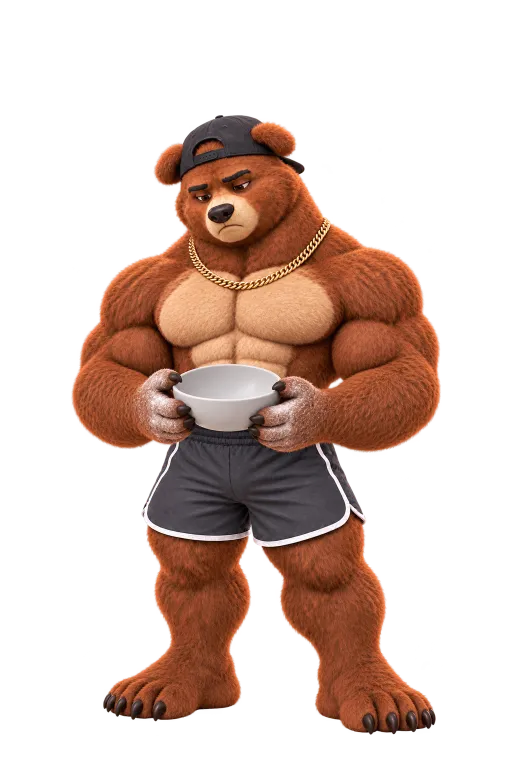
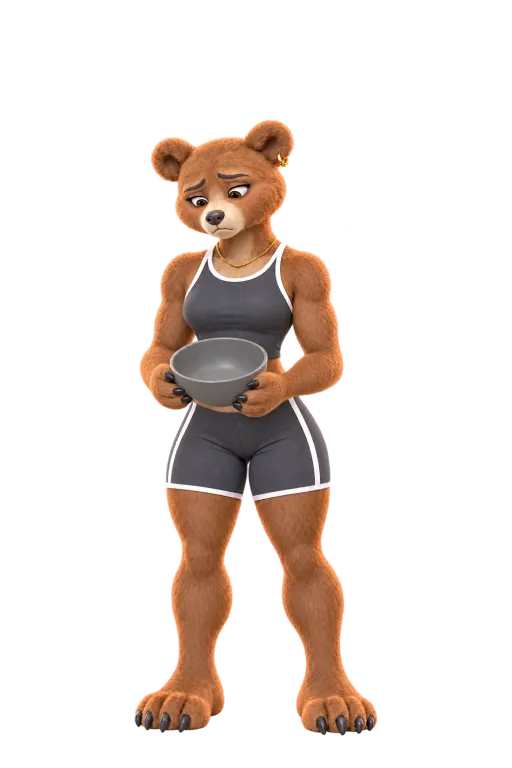
Split the two pitches apart and show male and female bears
Page A now pitches only the pet: levels from bedroom to Mars, feeding,
and the lazy bear. Page B pitches only the AI meal tracker: both hero
bears hold bowls under a scanned meal. Each hero and closing band shows
a male and a female bear. [skip deploy]

diff --git a/landing/b/index.html b/landing/b/index.html
@@ -198,14 +198,13 @@
   .board .big { font-size: 15cqw; text-transform: uppercase; margin: 1.5cqw 0; }
   .scene .bear {
     position: absolute;
-    left: 50%;
-    bottom: 3%;
-    height: 66%;
     width: auto;
     max-width: none;
     transform: translateX(-50%);
     filter: drop-shadow(0 12px 14px rgba(0, 0, 0, 0.35));
   }
+  .scene .bear.back { left: 68%; bottom: 6%; height: 56%; }
+  .scene .bear.front { left: 32%; bottom: 2%; height: 62%; }
 
   .features { padding-block: 40px 72px; }
   .features h2 { font-size: clamp(36px, 7vw, 56px); text-transform: uppercase; line-height: 0.98; max-width: 16ch; margin-bottom: 28px; }
@@ -224,8 +223,13 @@
   .cell img { align-self: end; justify-self: end; height: 220px; width: auto; margin-top: 12px; }
   .cell.one { background: var(--forest); color: var(--cream); }
   .cell.one p { color: #cfd9cf; }
-  .cell.one img.wide { height: auto; width: 100%; max-width: 560px; justify-self: center; }
   .cell.one img.tall { height: 300px; }
+  .levels { align-self: end; display: grid; gap: 10px; margin-top: 16px; }
+  .levels div { display: flex; align-items: flex-end; justify-content: space-between; }
+  .levels img { margin: 0; width: auto; }
+  .levels img:nth-child(1) { height: 92px; }
+  .levels img:nth-child(2) { height: 140px; }
+  .levels img:nth-child(3) { height: 176px; }
   .cell.two { background: var(--tint-honey); }
   .cell.three { background: var(--tint-sage); }
   .cell.two p, .cell.three p { color: var(--muted); }
@@ -237,7 +241,9 @@
   .closing label { color: var(--cream); }
   .closing .msg { color: #ffb4a8; }
   .closing .thanks { background: var(--forest-deep); color: #8fe3bb; border-color: #24543d; }
-  .closing img { height: 340px; width: auto; justify-self: center; align-self: end; }
+  .duo { display: flex; justify-content: center; align-items: flex-end; align-self: end; }
+  .duo img { height: 300px; width: auto; }
+  .duo img + img { margin-left: -48px; }
 
   footer { padding-block: 32px 48px; color: var(--muted); font-size: 15px; display: flex; flex-wrap: wrap; justify-content: space-between; gap: 8px 24px; }
   footer a { color: var(--text); font-weight: 600; }
@@ -252,7 +258,10 @@
     .bento { grid-template-columns: 1.25fr 1fr; grid-template-rows: auto auto; }
     .cell.one { grid-row: span 2; min-height: 620px; }
     .closing .wrap { grid-template-columns: 1.2fr 0.8fr; padding-block: 72px 0; }
-    .closing img { height: 420px; }
+    .duo img { height: 400px; }
+    .levels img:nth-child(1) { height: 120px; }
+    .levels img:nth-child(2) { height: 190px; }
+    .levels img:nth-child(3) { height: 240px; }
   }
   @media (prefers-reduced-motion: no-preference) {
     .scene .bear { animation: rise 0.9s var(--ease) both; }
@@ -288,7 +297,8 @@
     <div class="scene">
       <img class="gym" src="gym.webp" alt="" width="768" height="1152">
       <div class="board" aria-hidden="true"><span class="small">Chicken rice bowl</span><span class="big">46 g protein</span><span class="small">710 kcal</span></div>
-      <img class="bear" src="hero-bear.webp" alt="The beBEAR bear lifting a barbell in the gym" width="512" height="768">
+      <img class="bear back" src="hero-male.webp" alt="" width="512" height="768">
+      <img class="bear front" src="hero-female.webp" alt="Two beBEAR bears holding bowls of food in the gym" width="512" height="768">
     </div>
   </section>
 
@@ -297,7 +307,7 @@
     <div class="bento">
       <article class="cell one">
         <div><h3>Snap your meal, get the macros.</h3><p>Take a photo of your food. AI counts the protein and calories for you.</p></div>
-        <img class="tall" src="card-1.webp" alt="The bear holding a big bowl of food" loading="lazy">
+        <img class="tall" src="card-1.webp" alt="The bear holding a big bowl of food" width="512" height="768" loading="lazy">
       </article>
       <article class="cell two">
         <div><h3>A plan that fits you.</h3><p>Gym, home or street workout. Go for size, strength or both.</p></div>
@@ -305,7 +315,7 @@
       </article>
       <article class="cell three">
         <div><h3>Free forever to track.</h3><p>Log every lift and every meal. Simple screens, no clutter.</p></div>
-        <img src="card-3.webp" alt="The bear flexing" width="512" height="768" loading="lazy">
+        <img src="card-3.webp" alt="The bear lifting a barbell with a towel on her shoulder" width="512" height="768" loading="lazy">
       </article>
     </div>
   </section>
@@ -324,7 +334,10 @@
           <p class="msg" role="alert" aria-live="polite"></p>
         </form>
       </div>
-      <img src="closing-bear.webp" alt="" width="512" height="768" loading="lazy">
+      <div class="duo">
+        <img src="closing-male.webp" alt="" width="512" height="768" loading="lazy">
+        <img src="closing-female.webp" alt="" width="512" height="768" loading="lazy">
+      </div>
     </div>
   </section>
 </main>
